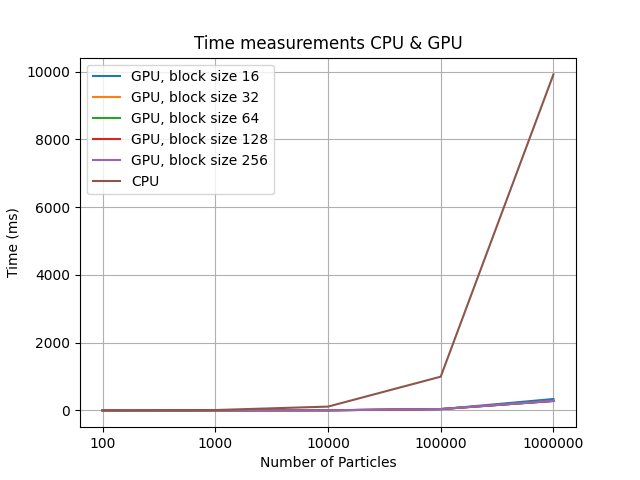
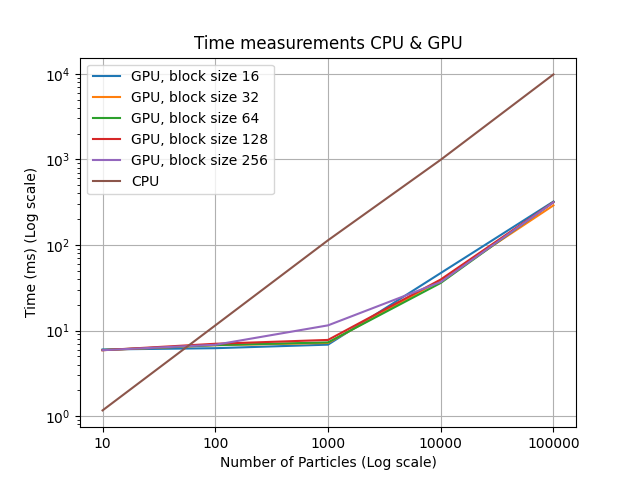
refined graphs for a4r3

diff --git a/Assignment_4/report/ex_3_benchmark/gen_graph.py b/Assignment_4/report/ex_3_benchmark/gen_graph.py
@@ -31,7 +31,7 @@ def readCpu(filename, convert=True):
     return cpu
 
 bl_sizes = ["16", "32", "64", "128", "256"]
-pa_sizes = ["100", "1000", "10000", "100000", "1000000"]
+pa_sizes = ["10", "100", "1000", "10000", "100000"]
 
 gpu_16 = readGpu("gpu_16.dat")
 gpu_32 = readGpu("gpu_32.dat")
@@ -51,12 +51,12 @@ for i in range(0, len(bl_sizes)):
     plt.plot(pa_sizes, gpu[i][3], label = "GPU, block size " + bl_sizes[i])
 
 # Add some text for labels, title and custom x-axis tick labels, etc.
-ax.set_ylabel('Time (ms)')
-ax.set_xlabel('Number of Particles')
+ax.set_ylabel('Time (ms) (Log scale)')
+ax.set_xlabel('Number of Particles (Log scale)')
 ax.set_title('Time measurements GPU')
 ax.set_xticks(pa_sizes)
 ax.set_xticklabels(labels)
-#ax.set_yscale('log', base=10)
+ax.set_yscale('log', base=10)
 plt.grid()
 ax.legend()
 
